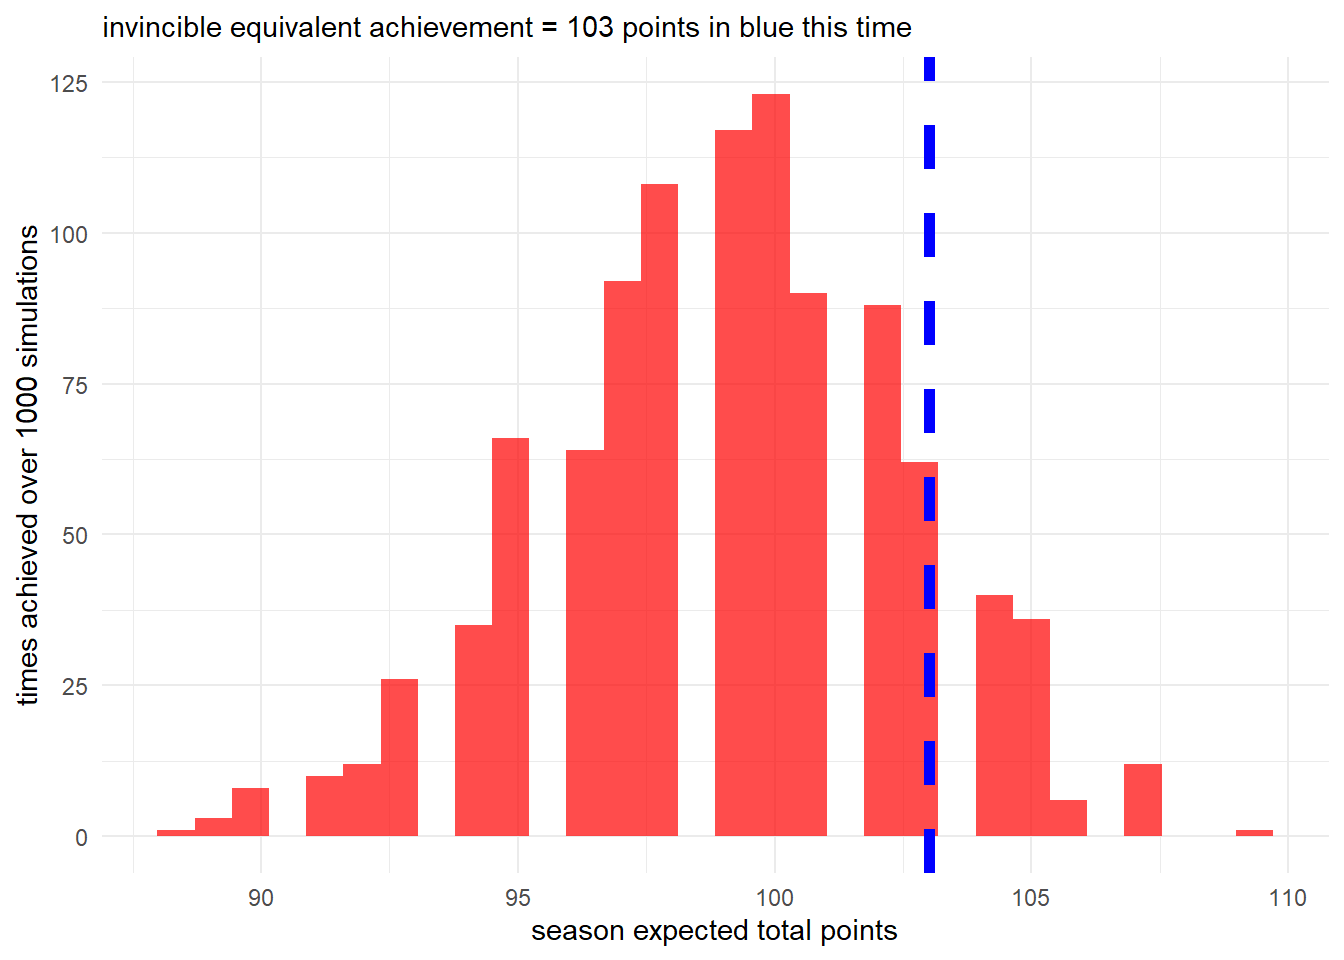
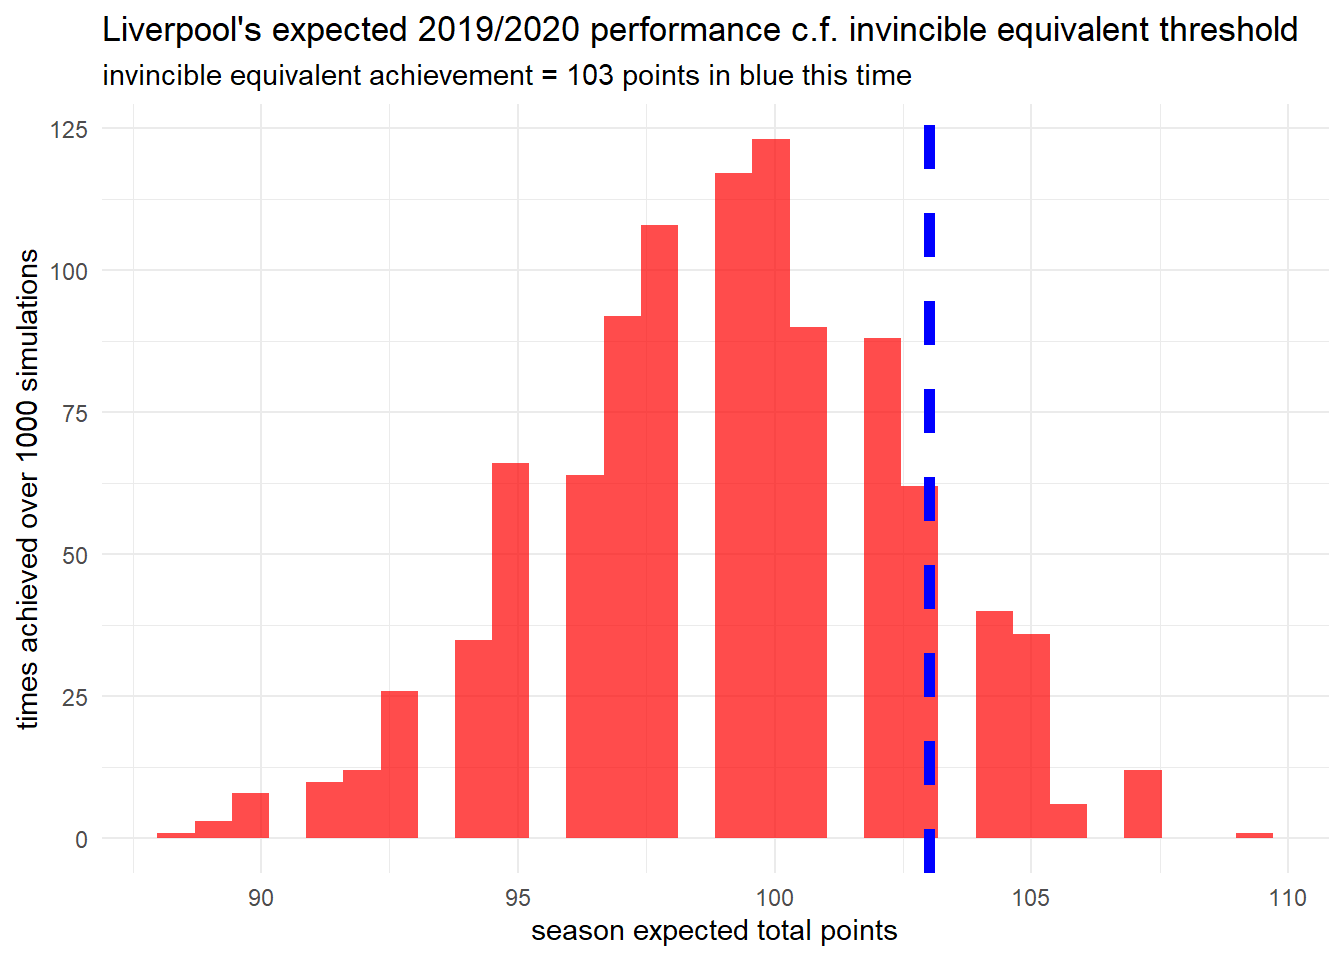
adding titles to plots

diff --git a/public/post/five_min_trivia_invincibles/index.html b/public/post/five_min_trivia_invincibles/index.html
@@ -592,7 +592,7 @@ head(invincible_equivalent, n = 1)</code></pre>
   #actual achievement in blue
   geom_vline(xintercept = filter(league_winners, season == 2017 &amp; league_position == 1)$total_points,
              colour = &quot;blue&quot;, linetype = &quot;dashed&quot;, size = 2) +
-  labs(&quot;Man C. expected 2017/2018 performance c.f. invincible equivalent threshold&quot;,
+  labs(title = &quot;Man C. expected 2017/2018 performance c.f. invincible equivalent threshold&quot;,
        subtitle = &quot;invincible equivalent achievement = 103 points, actual = 100 points&quot;,
        x = &quot;season expected total points&quot;,
        y = paste(&quot;times achieved over&quot;, n_sims, &quot;simulations&quot;)) +
@@ -710,7 +710,7 @@ liverpool_2020_simulated &lt;- rerun(n_sims, simulate_season(unplayed_results)) 
   #invincle equivalent achievement in red
   geom_vline(xintercept = min(invincible_equivalent$total_points),
              colour = &quot;blue&quot;, linetype = &quot;dashed&quot;, size = 2) +
-  labs(&quot;Liverpool&#39;s expected 2019/2020 performance c.f. invincible equivalent threshold&quot;,
+  labs(title = &quot;Liverpool&#39;s expected 2019/2020 performance c.f. invincible equivalent threshold&quot;,
        subtitle = &quot;invincible equivalent achievement = 103 points in blue this time&quot;,
        x = &quot;season expected total points&quot;,
        y = paste(&quot;times achieved over&quot;, n_sims, &quot;simulations&quot;)) +
@@ -749,13 +749,13 @@ p4</code></pre>
     
     <li><a href="/post/advent_calendar_trivia/">Advent Calendar of Football Trivia Analyses</a></li>
     
-    <li><a href="/project/statsbomb_conference/">Statsbomb Conference</a></li>
-    
     <li><a href="/project/yorkshire_world_cup/">Could Yorkshire Win the World Cup</a></li>
     
     <li><a href="/project/guardian_knowledge/">Guardian: The Knowledge</a></li>
     
-    <li><a href="/post/dynamic_web_scraping/">Scraping Dynamic Websites with PhantomJS</a></li>
+    <li><a href="/project/statsbomb_conference/">Statsbomb Conference</a></li>
+    
+    <li><a href="/post/guardian_knowledge_june/">The Guardian Knowledge June 2019</a></li>
     
   </ul>
 </div>

diff --git a/content/post/2020-03-04-invincibles.html b/content/post/2020-03-04-invincibles.html
@@ -294,7 +294,7 @@ head(invincible_equivalent, n = 1)</code></pre>
   #actual achievement in blue
   geom_vline(xintercept = filter(league_winners, season == 2017 &amp; league_position == 1)$total_points,
              colour = &quot;blue&quot;, linetype = &quot;dashed&quot;, size = 2) +
-  labs(&quot;Man C. expected 2017/2018 performance c.f. invincible equivalent threshold&quot;,
+  labs(title = &quot;Man C. expected 2017/2018 performance c.f. invincible equivalent threshold&quot;,
        subtitle = &quot;invincible equivalent achievement = 103 points, actual = 100 points&quot;,
        x = &quot;season expected total points&quot;,
        y = paste(&quot;times achieved over&quot;, n_sims, &quot;simulations&quot;)) +
@@ -412,7 +412,7 @@ liverpool_2020_simulated &lt;- rerun(n_sims, simulate_season(unplayed_results)) 
   #invincle equivalent achievement in red
   geom_vline(xintercept = min(invincible_equivalent$total_points),
              colour = &quot;blue&quot;, linetype = &quot;dashed&quot;, size = 2) +
-  labs(&quot;Liverpool&#39;s expected 2019/2020 performance c.f. invincible equivalent threshold&quot;,
+  labs(title = &quot;Liverpool&#39;s expected 2019/2020 performance c.f. invincible equivalent threshold&quot;,
        subtitle = &quot;invincible equivalent achievement = 103 points in blue this time&quot;,
        x = &quot;season expected total points&quot;,
        y = paste(&quot;times achieved over&quot;, n_sims, &quot;simulations&quot;)) +

diff --git a/public/post/cam_rowing_1/index.html b/public/post/cam_rowing_1/index.html
@@ -517,9 +517,9 @@ p2</code></pre>
     
     <li><a href="/project/yorkshire_world_cup/">Could Yorkshire Win the World Cup</a></li>
     
-    <li><a href="/post/guardian_knowledge_june/">The Guardian Knowledge June 2019</a></li>
-    
     <li><a href="/post/dynamic_web_scraping/">Scraping Dynamic Websites with PhantomJS</a></li>
+    
+    <li><a href="/post/guardian_knowledge_june/">The Guardian Knowledge June 2019</a></li>
     
     <li><a href="/post/riddler-1st-feb-2019/">Riddler 1st February 2019</a></li>
     
